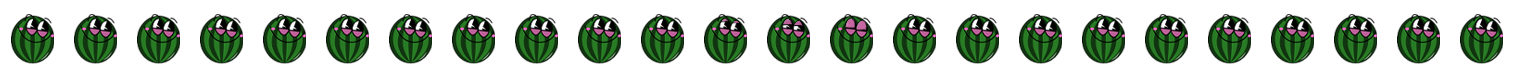
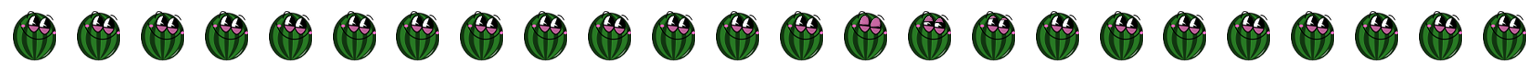
update animation

diff --git a/lib/leaderboard/view/leaderboard_page.dart b/lib/leaderboard/view/leaderboard_page.dart
@@ -164,7 +164,7 @@ class LeaderboardErrorWidget extends StatelessWidget {
           dimension: 64,
           child: SpriteAnimationWidget.asset(
             images: Images(prefix: ''),
-            path: Assets.map.anim.spritesheetDashDeathFaintPng.path,
+            path: 'assets/map/anim/arbuz_run.png',
             data: SpriteAnimationData.sequenced(
               amount: 16,
               stepTime: 0.042,
@@ -192,7 +192,7 @@ class LeaderboardLoadingWidget extends StatelessWidget {
       dimension: 64,
       child: SpriteAnimationWidget.asset(
         images: Images(prefix: ''),
-        path: Assets.map.anim.spritesheetDashRunPng.path,
+        path: 'assets/map/anim/arbuz_run.png',
         data: SpriteAnimationData.sequenced(
           amount: 16,
           stepTime: 0.042,
